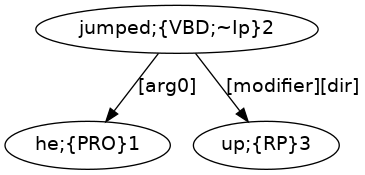
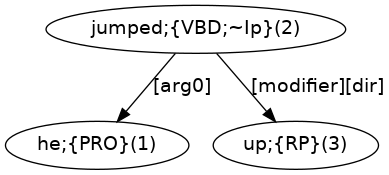
update

diff --git a/tspc_quick_access.html b/tspc_quick_access.html
@@ -269,9 +269,9 @@ body {
 
 <img src="https://ajb129.github.io/tspc_quick_access_graph.png" alt="Example graph page" height="220">
 
-<p align="justify">In a graph, word content for source sentences is found outside of square brackets (&lsquo;<tt>[</tt>&rsquo;, &lsquo;<tt>]</tt>&rsquo;) and is always accompanied by (i) content between curly braces (&lsquo;<tt>&lcub;</tt>&rsquo;, &lsquo;<tt>&rcub;</tt>&rsquo;) to say the word class (and, when appropriate, grammar code) of the word, and (ii) numbering to say the word position within the source sentence(s).</p>
+<p align="justify">In a graph, word content for source sentences is found outside of square brackets (&lsquo;<tt>[</tt>&rsquo;, &lsquo;<tt>]</tt>&rsquo;) and is always accompanied by (i) content between curly braces (&lsquo;<tt>&lcub;</tt>&rsquo;, &lsquo;<tt>&rcub;</tt>&rsquo;) to say the word class (and, when appropriate, grammar code) of the word, and (ii) numbering inside round brackets (&lsquo;<tt>(</tt>&rsquo;, &lsquo;<tt>)</tt>&rsquo;) to say the word position within the source sentence(s).</p>
 
-<p align="justify">&nbsp;&nbsp;&nbsp;&nbsp;There is at least one number per word, but there may be a second number separated by an underscore character (&lsquo;<tt>&lowbar;</tt>&rsquo;). The second number (if present) says which source sentence the word belongs to. The first number says the position of the word within its source sentence. If there is no second number, then the graph has only one source sentence.</p>
+<p align="justify">&nbsp;&nbsp;&nbsp;&nbsp;There is at least one number inside round brackets per word, but there may be a second number separated by an underscore character (&lsquo;<tt>&lowbar;</tt>&rsquo;). The second number (if present) says which source sentence the word belongs to. The first number says the position of the word within its source sentence. If there is no second number, then the graph has only one source sentence.</p>
 
 <p align="justify">&nbsp;&nbsp;&nbsp;&nbsp;Square bracket content tells us about how words function, e.g., <tt>[ARG0]</tt>=logical subject, <tt>[DIR]</tt>=direction role.</p>
 

diff --git a/puzzle_graphs.html b/puzzle_graphs.html
@@ -40,9 +40,9 @@ body {
 <br>
 <h2><a name="sec2">2</a>&nbsp;&nbsp;&nbsp;How to read a puzzle graph</h2>
 
-<p align="justify">In a puzzle graph, word content for solution sentences is found outside of square brackets (&lsquo;<tt>[</tt>&rsquo;, &lsquo;<tt>]</tt>&rsquo;) and is always accompanied by (i) content between curly braces (&lsquo;<tt>&lcub;</tt>&rsquo;, &lsquo;<tt>&rcub;</tt>&rsquo;) to say the word class of the word, and (ii) numbering to say the word position within the solution sentence(s).</p>
+<p align="justify">In a puzzle graph, word content for solution sentences is found outside of square brackets (&lsquo;<tt>[</tt>&rsquo;, &lsquo;<tt>]</tt>&rsquo;) and is always accompanied by (i) content between curly braces (&lsquo;<tt>&lcub;</tt>&rsquo;, &lsquo;<tt>&rcub;</tt>&rsquo;) to say the word class of the word, and (ii) numbering inside round brackets (&lsquo;<tt>(</tt>&rsquo;, &lsquo;<tt>)</tt>&rsquo;) to say the word position within the solution sentence(s).</p>
 
-<p align="justify">&nbsp;&nbsp;&nbsp;&nbsp;There is at least one number per word, but there may be a second number separated by an underscore character (&lsquo;<tt>&lowbar;</tt>&rsquo;). The second number (if present) says which solution sentence the word belongs to. The first number says the position of the word within its solution sentence. If there is no second number, then only one solution sentence is expected.</p>
+<p align="justify">&nbsp;&nbsp;&nbsp;&nbsp;There is at least one number inside round brackets per word, but there may be a second number separated by an underscore character (&lsquo;<tt>&lowbar;</tt>&rsquo;). The second number (if present) says which solution sentence the word belongs to. The first number says the position of the word within its solution sentence. If there is no second number, then only one solution sentence is expected.</p>
 
 <p align="justify">&nbsp;&nbsp;&nbsp;&nbsp;Square bracket content tells us about how words function, that is, what words <i>do</i> in their sentences. These are the clues that help to say where words should go to form solution sentences.</p>
 
